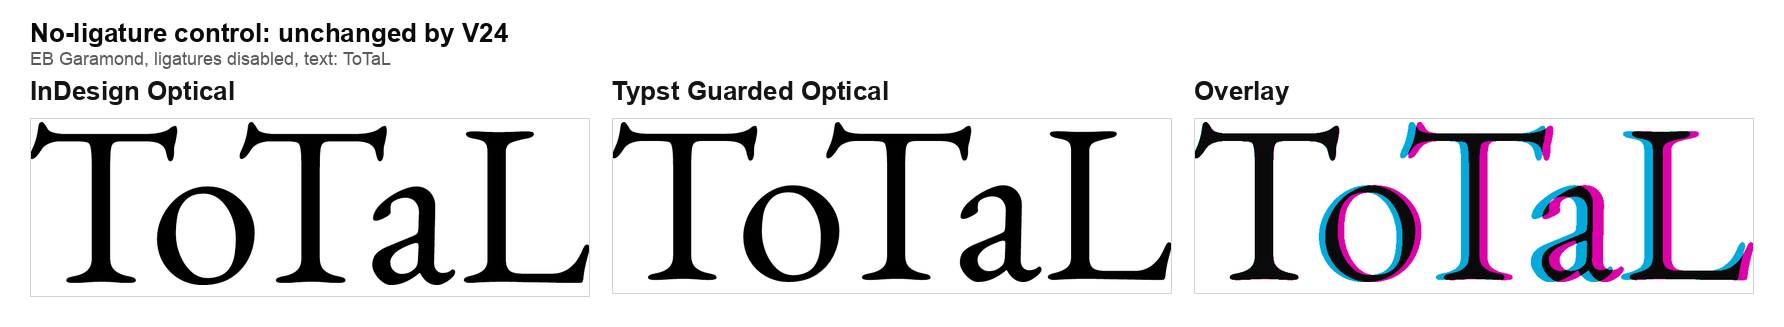
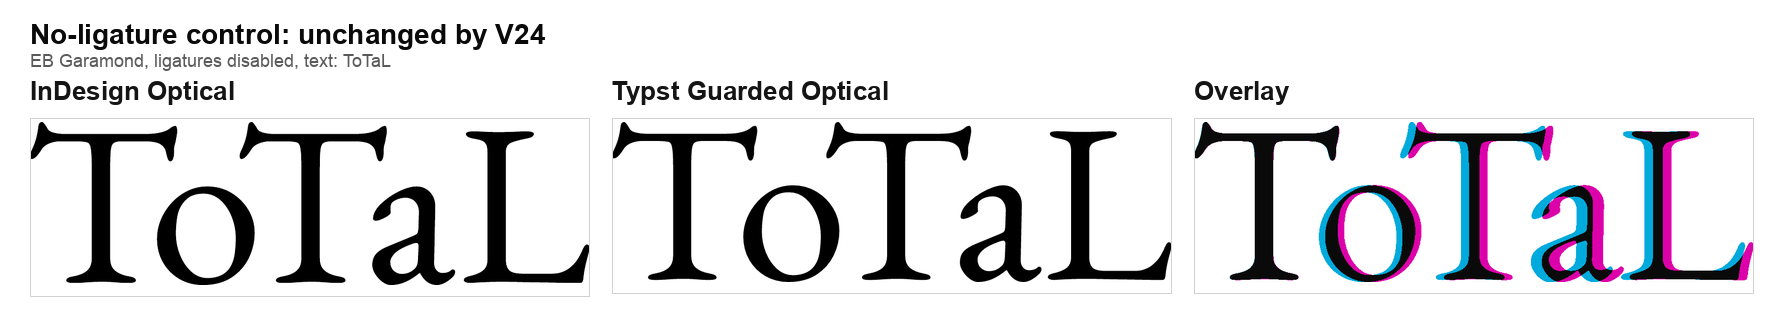
Make paper figures reproducible

Changed region(s): [[0.0, 0.0612, 0.3083, 0.2141]]

diff --git a/scripts/build-paper-figures.py b/scripts/build-paper-figures.py
@@ -1,0 +1,198 @@
+#!/usr/bin/env python3
+from __future__ import annotations
+
+import argparse
+from pathlib import Path
+
+from PIL import Image, ImageDraw, ImageFont
+
+
+def parse_args() -> argparse.Namespace:
+    parser = argparse.ArgumentParser(
+        description="Build small committed paper figures from generated V24 renders."
+    )
+    parser.add_argument(
+        "--output",
+        default="docs/figures",
+        help="Directory for generated PNG figures. Default: docs/figures.",
+    )
+    parser.add_argument(
+        "--root",
+        default=".",
+        help="Repository root. Default: current directory.",
+    )
+    return parser.parse_args()
+
+
+def font(size: int, bold: bool = False) -> ImageFont.FreeTypeFont | ImageFont.ImageFont:
+    names = [
+        "/System/Library/Fonts/Supplemental/Arial Bold.ttf" if bold else "",
+        "/System/Library/Fonts/Supplemental/Arial.ttf",
+        "/Library/Fonts/Arial.ttf",
+    ]
+    for name in names:
+        if not name:
+            continue
+        path = Path(name)
+        if path.exists():
+            return ImageFont.truetype(str(path), size)
+    return ImageFont.load_default()
+
+
+TITLE = font(28, bold=True)
+LABEL = font(26, bold=True)
+SMALL = font(18)
+
+
+def trim_white(image: Image.Image, pad: int = 16) -> Image.Image:
+    rgba = image.convert("RGBA")
+    pixels = rgba.load()
+    width, height = rgba.size
+    xs: list[int] = []
+    ys: list[int] = []
+    for y in range(height):
+        for x in range(width):
+            red, green, blue, alpha = pixels[x, y]
+            if alpha and (red < 245 or green < 245 or blue < 245):
+                xs.append(x)
+                ys.append(y)
+    if not xs:
+        return rgba
+    box = (
+        max(0, min(xs) - pad),
+        max(0, min(ys) - pad),
+        min(width, max(xs) + pad + 1),
+        min(height, max(ys) + pad + 1),
+    )
+    return rgba.crop(box)
+
+
+def fit(image: Image.Image, max_width: int, max_height: int) -> Image.Image:
+    rgba = image.convert("RGBA")
+    scale = min(max_width / rgba.width, max_height / rgba.height, 1.0)
+    size = (round(rgba.width * scale), round(rgba.height * scale))
+    return rgba.resize(size, Image.Resampling.LANCZOS)
+
+
+def panel(label: str, path: Path, max_width: int = 560, max_height: int = 260) -> Image.Image:
+    image = fit(trim_white(Image.open(path)), max_width, max_height)
+    height = image.height + 58
+    canvas = Image.new("RGBA", (max_width, height), "white")
+    draw = ImageDraw.Draw(canvas)
+    draw.text((0, 0), label, fill=(20, 20, 20), font=LABEL)
+    x = (max_width - image.width) // 2
+    canvas.alpha_composite(image, (x, 46))
+    draw.rectangle((0, 42, max_width - 1, height - 1), outline=(210, 210, 210), width=1)
+    return canvas
+
+
+def compose_triptych(
+    root: Path,
+    output: Path,
+    title: str,
+    subtitle: str,
+    paths: list[str],
+    labels: list[str],
+    filename: str,
+) -> None:
+    panels = [panel(label, root / path) for label, path in zip(labels, paths)]
+    gap = 22
+    margin = 30
+    title_height = 76
+    width = margin * 2 + sum(item.width for item in panels) + gap * (len(panels) - 1)
+    height = title_height + max(item.height for item in panels) + margin
+    canvas = Image.new("RGBA", (width, height), "white")
+    draw = ImageDraw.Draw(canvas)
+    draw.text((margin, 18), title, fill=(10, 10, 10), font=TITLE)
+    draw.text((margin, 50), subtitle, fill=(90, 90, 90), font=SMALL)
+    x = margin
+    for item in panels:
+        canvas.alpha_composite(item, (x, title_height))
+        x += item.width + gap
+    canvas.convert("RGB").save(output / filename, optimize=True)
+
+
+def crop_contact(
+    root: Path,
+    output: Path,
+    source: str,
+    filename: str,
+    title: str,
+    subtitle: str,
+    y0: int,
+    y1: int,
+    max_width: int = 1200,
+) -> None:
+    image = Image.open(root / source).convert("RGB")
+    crop = image.crop((0, y0, image.width, min(image.height, y1)))
+    scale = min(max_width / crop.width, 1.0)
+    crop = crop.resize((round(crop.width * scale), round(crop.height * scale)), Image.Resampling.LANCZOS)
+    margin = 24
+    title_height = 72
+    canvas = Image.new("RGB", (crop.width + margin * 2, crop.height + title_height + margin), "white")
+    draw = ImageDraw.Draw(canvas)
+    draw.text((margin, 18), title, font=TITLE, fill=(10, 10, 10))
+    draw.text((margin, 50), subtitle, font=SMALL, fill=(90, 90, 90))
+    canvas.paste(crop, (margin, title_height))
+    canvas.save(output / filename, optimize=True)
+
+
+def main() -> None:
+    args = parse_args()
+    root = Path(args.root).resolve()
+    output = (root / args.output).resolve()
+    output.mkdir(parents=True, exist_ok=True)
+
+    compose_triptych(
+        root,
+        output,
+        "Short serif ligature word: V24 target case",
+        "Libre Baskerville, ligatures enabled, text: final",
+        [
+            "renders/optical-comparison-suite/ligatures-100pt-v24/libre-baskerville/final/crops/indesign-optical-ink.png",
+            "renders/optical-comparison-suite/ligatures-100pt-v24/libre-baskerville/final/crops/typst-guarded-ink.png",
+            "renders/optical-comparison-suite/ligatures-100pt-v24/libre-baskerville/final/overlays/optical-vs-guarded.png",
+        ],
+        ["InDesign Optical", "Typst Guarded Optical", "Overlay"],
+        "v24-libre-final-ligature.png",
+    )
+    compose_triptych(
+        root,
+        output,
+        "No-ligature control: unchanged by V24",
+        "EB Garamond, ligatures disabled, text: ToTaL",
+        [
+            "renders/optical-comparison-suite/no-ligatures-100pt-five-font-v24/eb-garamond/total/crops/indesign-optical-ink.png",
+            "renders/optical-comparison-suite/no-ligatures-100pt-five-font-v24/eb-garamond/total/crops/typst-guarded-ink.png",
+            "renders/optical-comparison-suite/no-ligatures-100pt-five-font-v24/eb-garamond/total/overlays/optical-vs-guarded.png",
+        ],
+        ["InDesign Optical", "Typst Guarded Optical", "Overlay"],
+        "v24-eb-total-no-ligature-control.png",
+    )
+    crop_contact(
+        root,
+        output,
+        "renders/optical-comparison-suite/ligatures-100pt-v24/contact-sheet.png",
+        "v24-ligature-sheet-excerpt.png",
+        "Ligature-capable suite excerpt",
+        "Columns: InDesign Optical, Typst Guarded Optical, overlay",
+        0,
+        760,
+    )
+    crop_contact(
+        root,
+        output,
+        "renders/optical-comparison-suite/no-ligatures-100pt-five-font-v24/contact-sheet.png",
+        "v24-no-ligature-sheet-excerpt.png",
+        "No-ligature suite excerpt",
+        "Columns: InDesign Optical, Typst Guarded Optical, overlay",
+        0,
+        760,
+    )
+
+    for path in sorted(output.glob("*.png")):
+        print(f"{path.relative_to(root)} {Image.open(path).size} {path.stat().st_size} bytes")
+
+
+if __name__ == "__main__":
+    main()

diff --git a/docs/typst-optical-kerning-evaluation.md b/docs/typst-optical-kerning-evaluation.md
@@ -76,6 +76,9 @@ Overlay colors:
 - magenta: Typst Guarded Optical,
 - black: overlap.
 
+Related background notes and external references are collected in
+`docs/research-alignment.md`.
+
 ## Evaluation Pipeline
 
 The suite intentionally compares rendered output, not only internal pair values.
@@ -246,6 +249,8 @@ scripts/run-optical-comparison-suite.py \
   --baseline-output baselines/optical-comparison-suite-five-font-v24.json \
   --retries 1 \
   --preflight-timeout 45
+
+scripts/build-paper-figures.py
 ```
 
 ## What This Suggests For Typst
@@ -271,6 +276,24 @@ The public Typst API could later be discussed separately, for example:
 The benchmark is deliberately not an API proposal yet. Its value is to make the
 behavioral tradeoffs visible before an implementation proposal is made.
 
+## Claims And Non-Claims
+
+This work claims that the current direction is plausible for Typst: shaped text,
+font outlines, metric priors, dynamic guards, and cached pair/run data can
+produce stable optical-kerning behavior without raster work in the layout path.
+
+It does not claim that:
+
+- InDesign Optical is ground truth,
+- the current algorithm is ready to merge into Typst,
+- the current Latin-focused corpus is enough for all scripts,
+- or a public Typst API has been settled.
+
+The useful result is the evaluation frame itself. It makes future changes
+measurable: a new rule must improve a named visual failure, preserve metric
+parity assumptions, and avoid drifting unrelated no-ligature or ligature
+controls.
+
 ## Evidence Map
 
 The following files are the best starting points for review:
@@ -289,14 +312,14 @@ The large rendered artifacts under `renders/` are intentionally generated
 outputs. They can be reproduced from the commands above; selected small figures
 are committed under `docs/figures/` for easier review.
 
-## Remaining Work
+## Limitations And Next Work
 
 - Broaden the font corpus while keeping the parity gates strict.
 - Add more display-size words and number cases that designers actually care
   about.
 - Keep optimizing only when a failure has a dynamic shape cause, not a
   font-name-specific exception.
-- Turn the current Markdown draft into a polished public article with selected
-  images from the V24 contact sheets.
+- Turn this review draft into a polished public article with a shorter story
+  arc and fewer implementation details.
 - Decide which result tables and overlays should be committed, released, or
   generated in CI.

diff --git a/README.md b/README.md
@@ -38,6 +38,7 @@ scripts/run-goldfish-parity.py --baseline-output baselines/goldfish-parity-v1.js
 scripts/run-goldfish-parity.py --font-specs renders/font-sandbox/goldfish-no-ligature-fonts.json
 scripts/run-metric-parity-suite.py
 scripts/run-optical-comparison-suite.py
+scripts/build-paper-figures.py
 ```
 
 The suite performs a small InDesign automation preflight before writing metric
